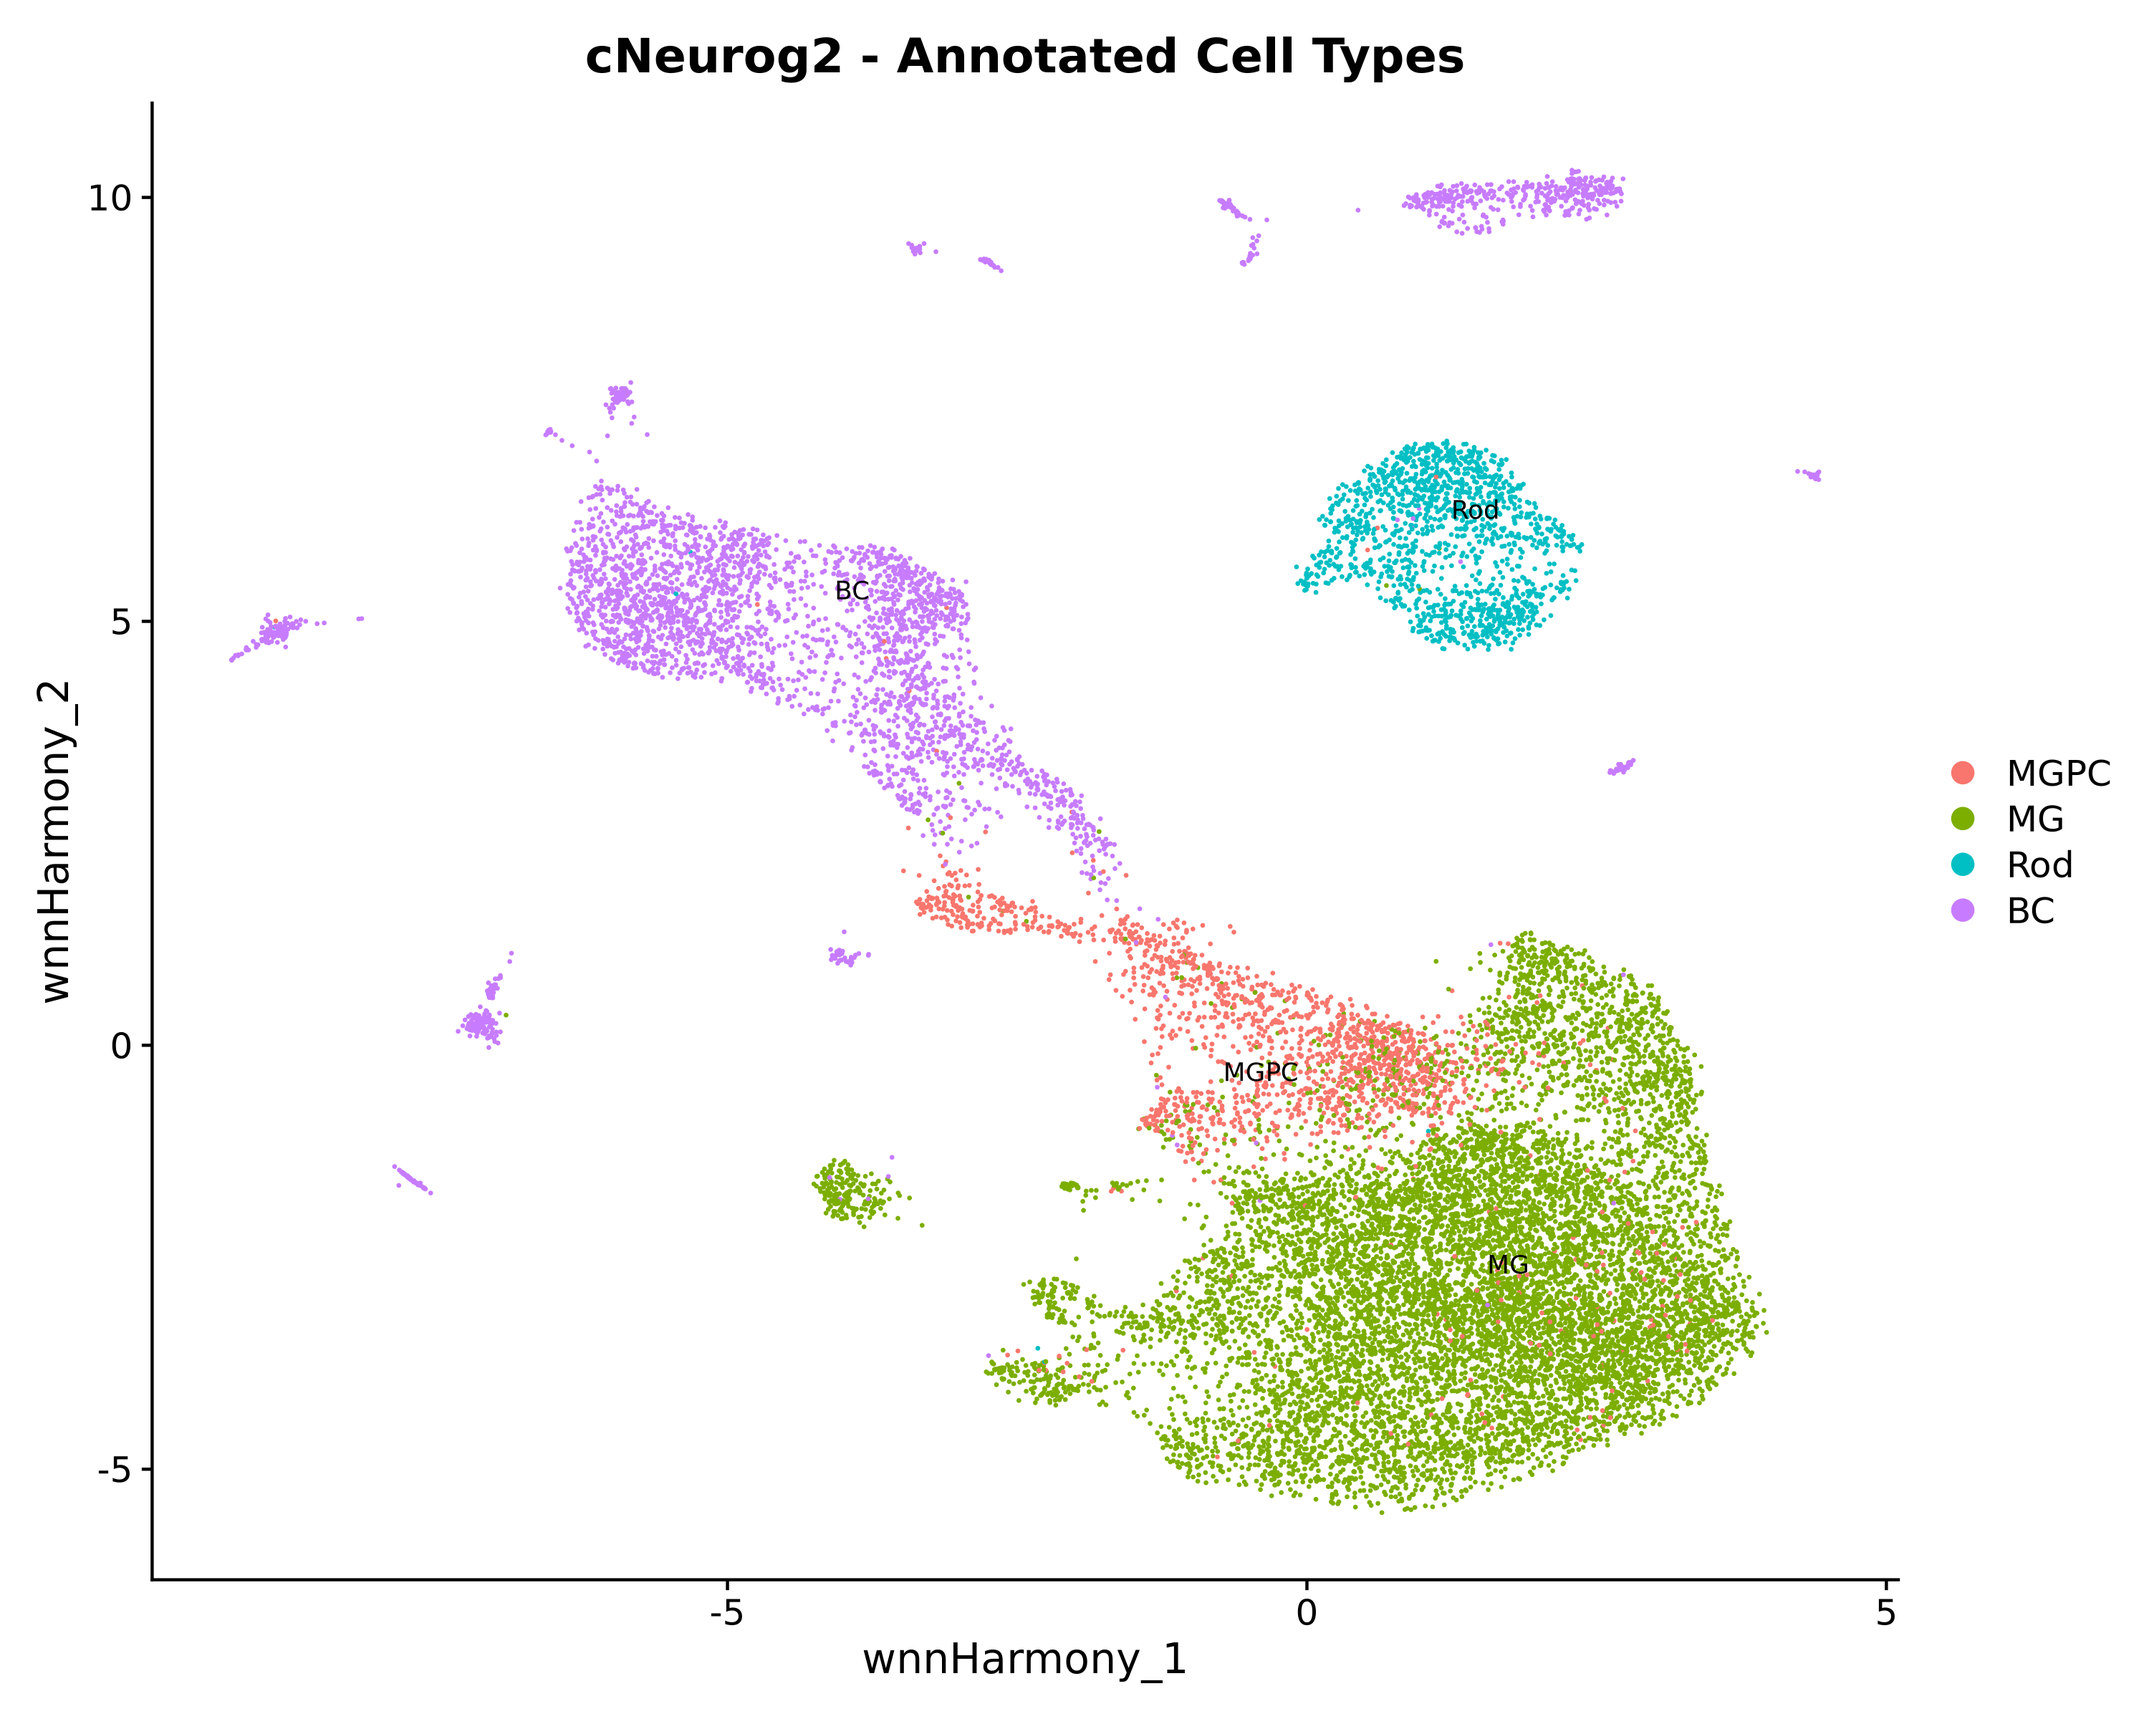
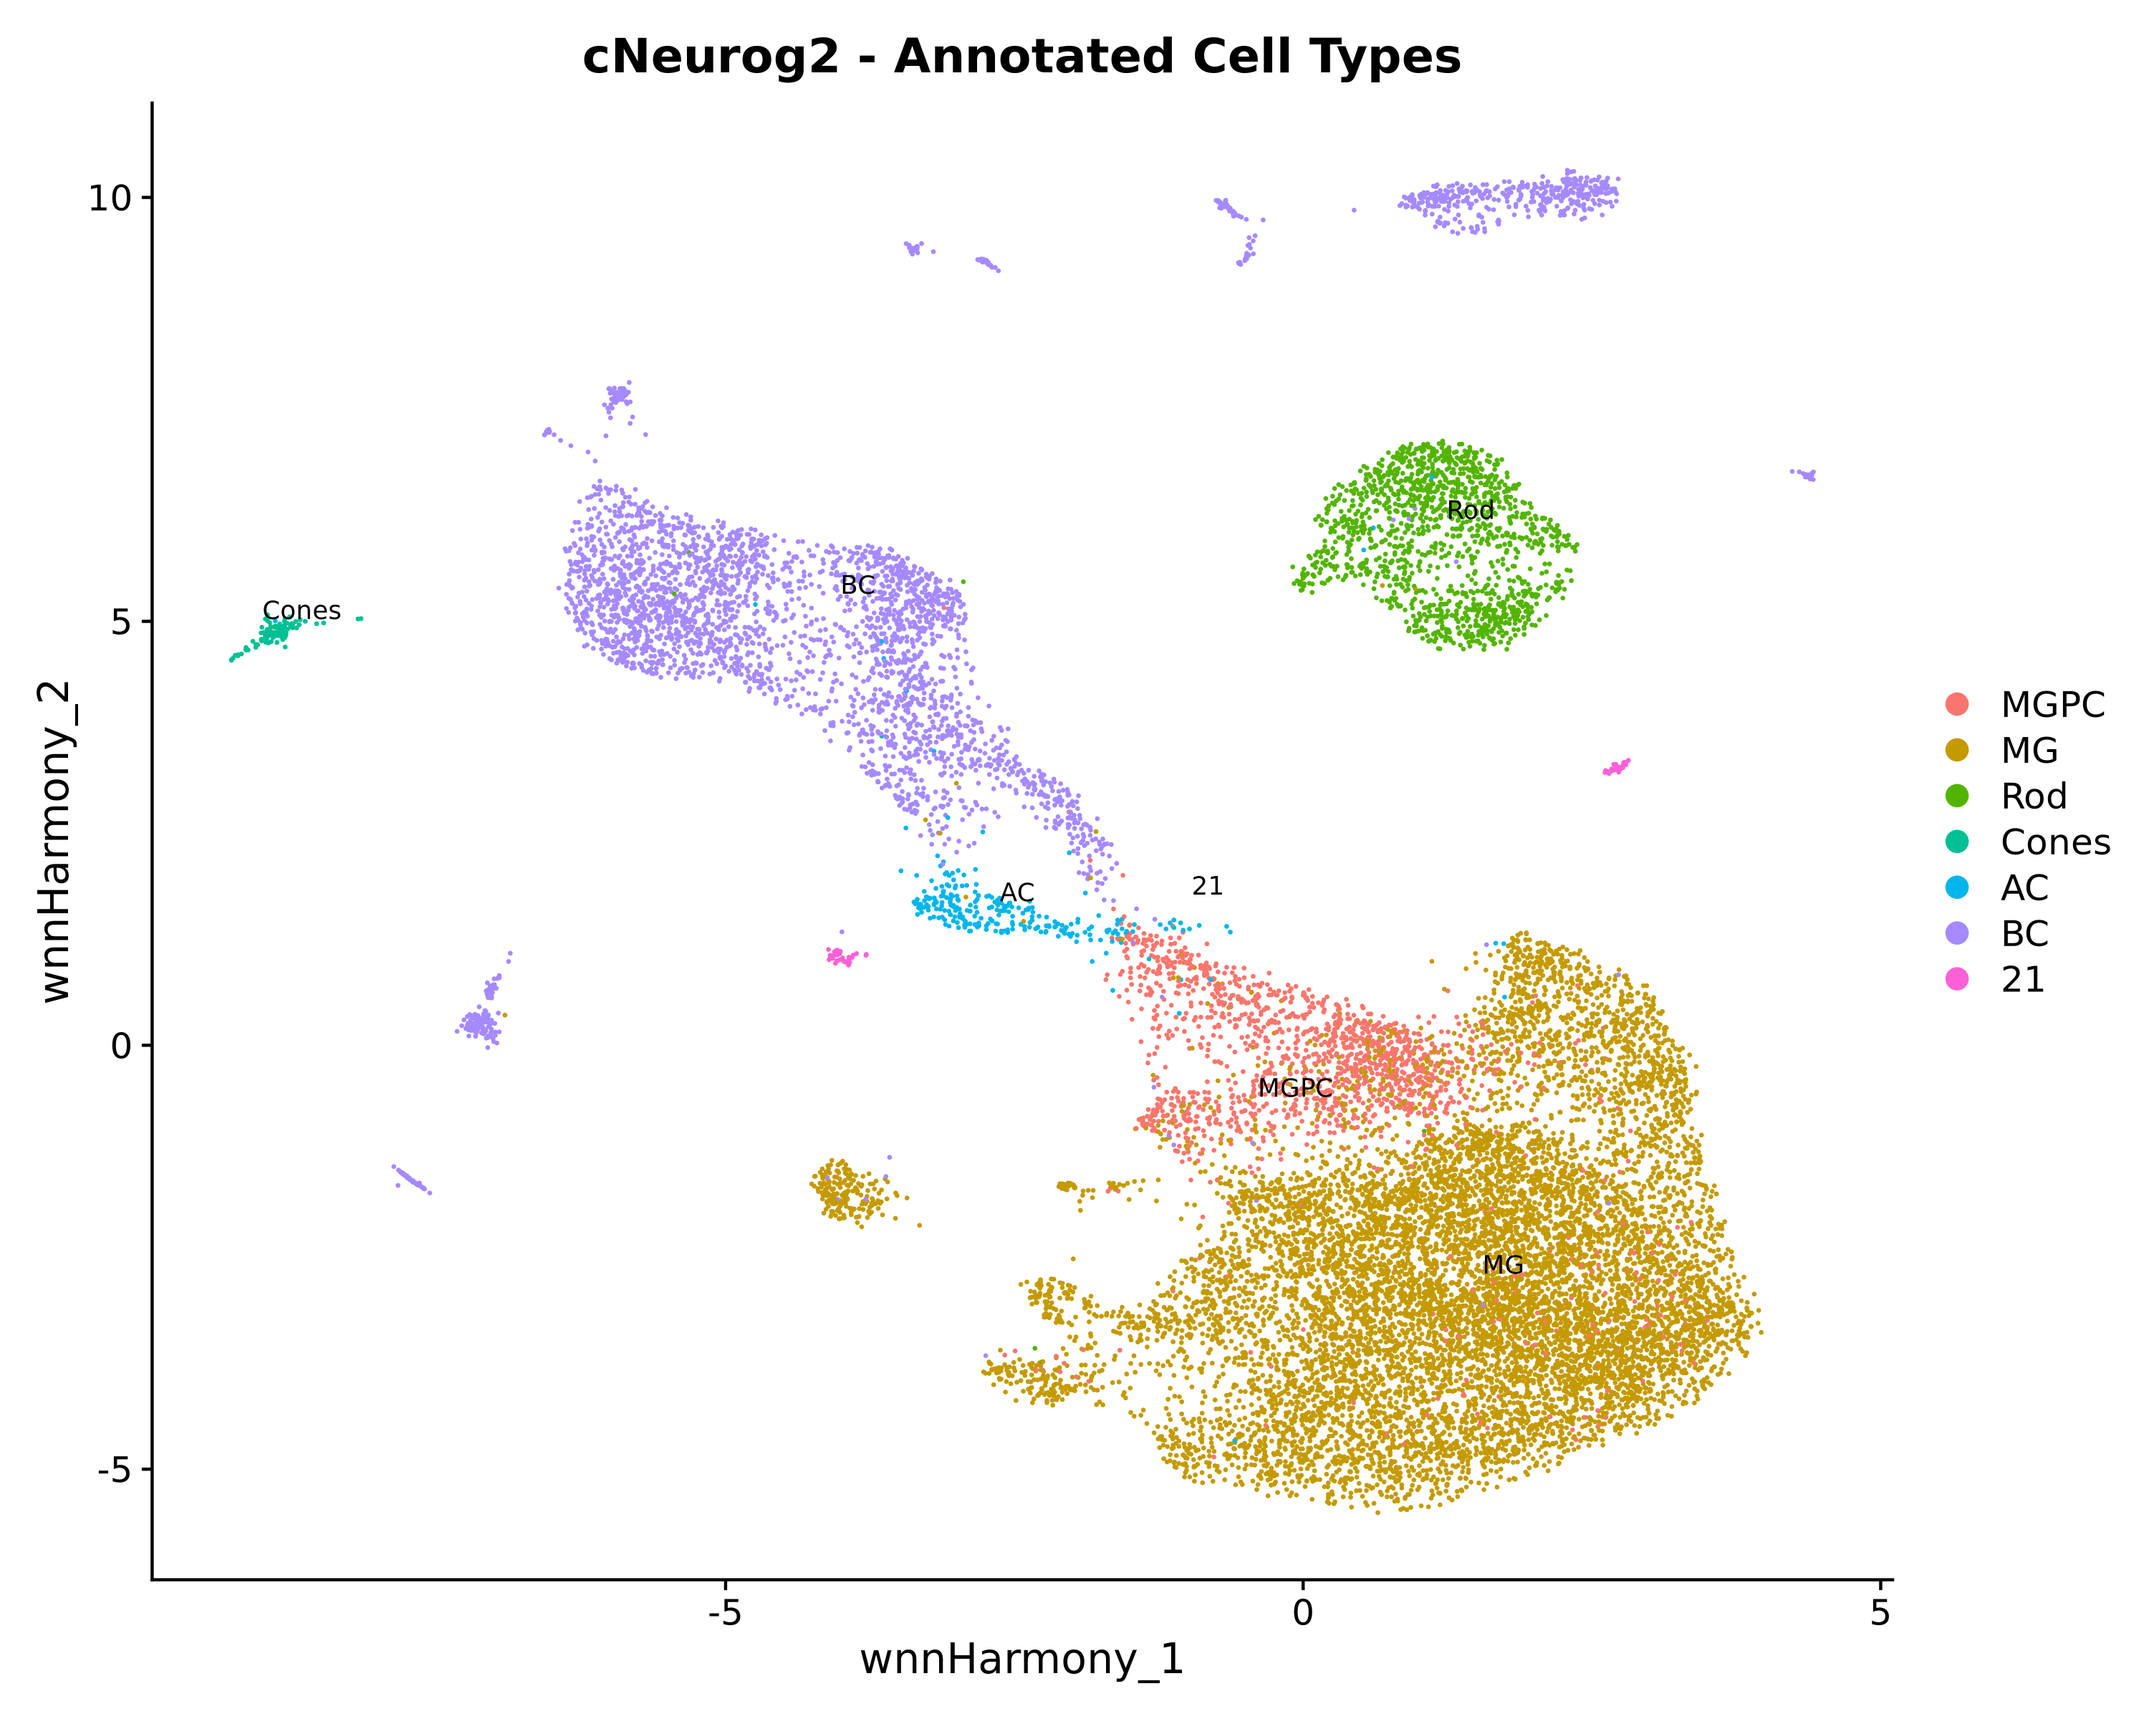
fix annotations

diff --git a/README.md b/README.md
@@ -91,15 +91,13 @@ Overexpression of stablized version of Neurog2
 
 ## Annotation: Where is AC??
 
-# WILL NEED TO REANNOTATE 
 
-![Annotations](figures/cNeurog2_annotated_umap.png?v=2)
+![Annotations](figures/cNeurog2_annotated_umap.png?v=3)
 
 
 ## Cell ratio -Missing AC - 
 
-![Cell ratio](figures/cNeurog2_celltype_ratio_by_sample.png?v=2)
-
+![Cell ratio](figures/cNeurog2_celltype_ratio_by_sample.png?v=3)
 
 
 ## Differential Gene Expression
